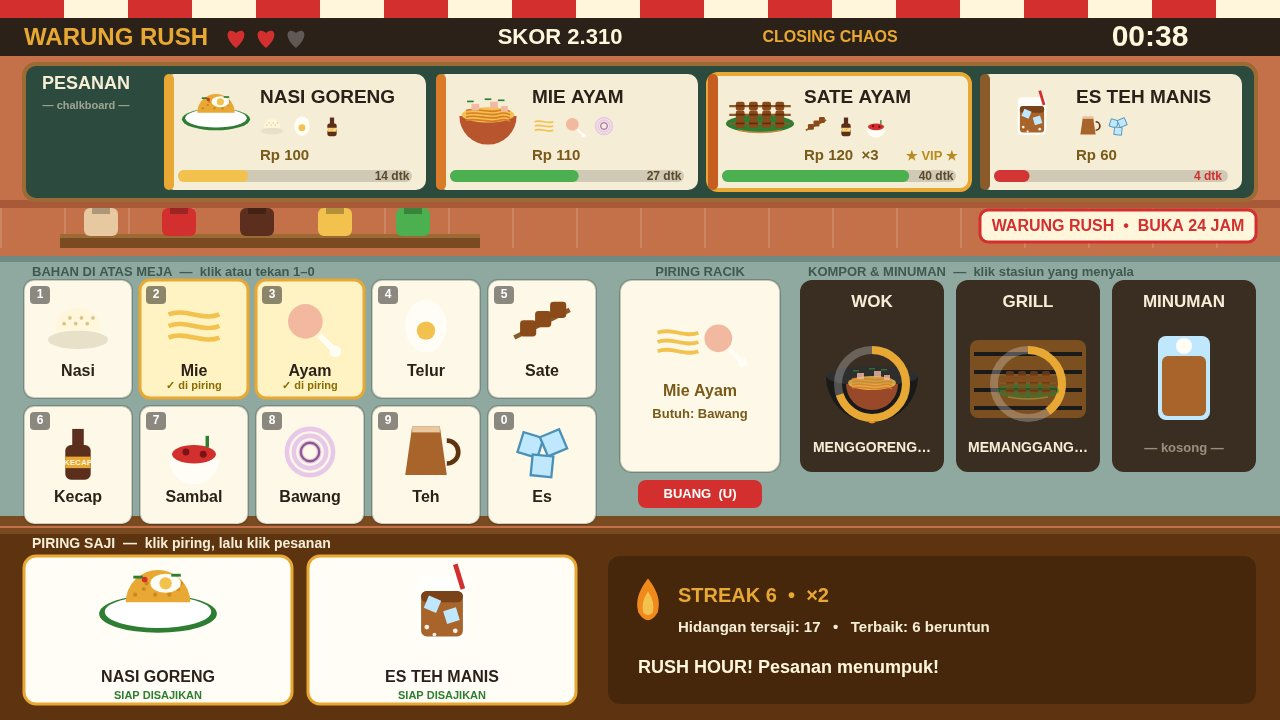
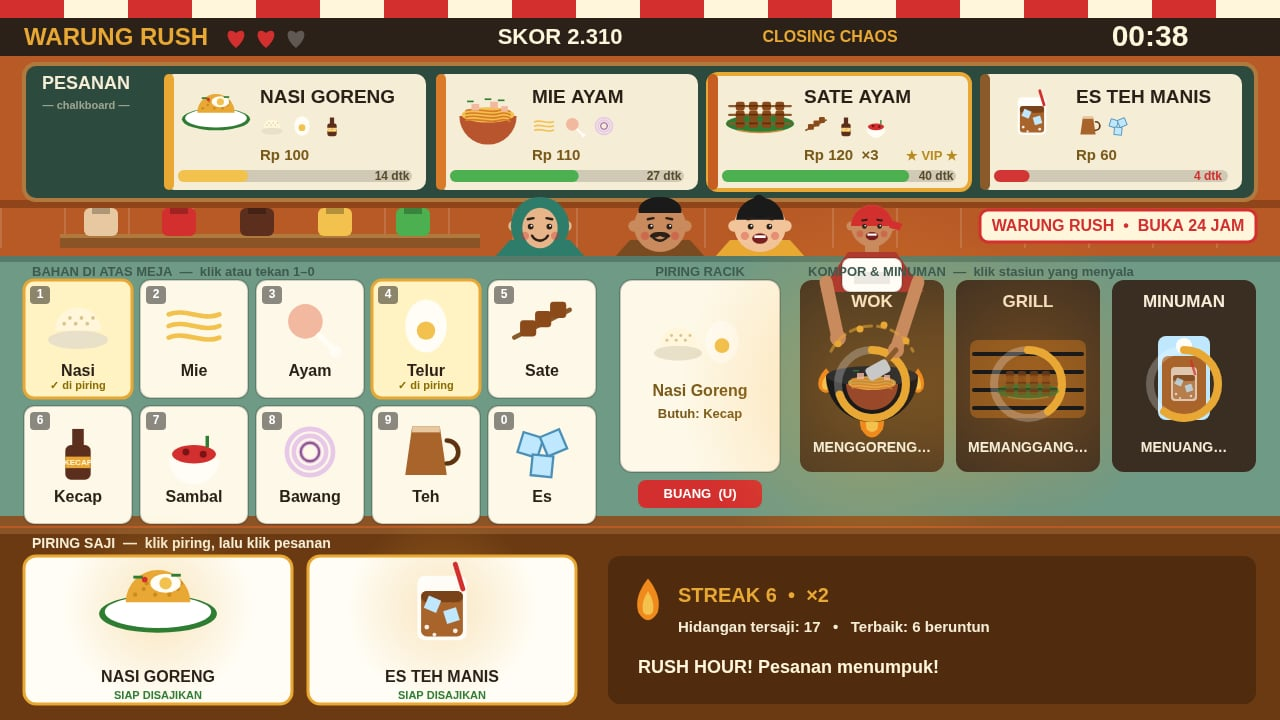
Revision: chef + customers, warm glow, peak-rush cover

Changed region(s): [[0.0, 0.0611, 1.0, 0.9472], [0.2812, 0.7333, 0.4062, 0.9472], [0.1562, 0.825, 0.1875, 0.8556]]

diff --git a/game/render.js b/game/render.js
@@ -9,14 +9,16 @@ export const W = 1280;
 export const H = 720;
 
 // Warung palette (from the design spec): terracotta walls, zinc counter,
-// slate-green chalkboard, cream tickets, batik gold.
+// slate-green chalkboard, cream tickets, batik gold. Warmed and saturated
+// in the v3 revision so the stall reads as a glowing evening warung, not a
+// pale UI grid: deep terracotta wall, richer sage zinc, warm wood.
 export const PAL = {
-  wall: '#C4714A',
-  wallDark: '#A85A38',
-  zinc: '#8FA8A0',
-  zincDark: '#6E8A82',
-  wood: '#7A4A21',
-  woodLight: '#9C6B35',
+  wall: '#B85A26',
+  wallDark: '#8F4519',
+  zinc: '#6E9A86',
+  zincDark: '#557A6A',
+  wood: '#8A5426',
+  woodLight: '#B07A3E',
   chalk: '#2D4A3E',
   chalkLight: '#3A5C4C',
   ticket: '#F5EDD6',
@@ -65,6 +67,98 @@ function text(ctx, str, x, y, size, color, align = 'center', weight = 'bold') {
   ctx.textAlign = align;
   ctx.textBaseline = 'middle';
   ctx.fillText(str, x, y);
+}
+
+// Warm light: a soft radial glow that fades to transparent. Used for the
+// wok fire, the grill heat and the golden light over plated food.
+function radialGlow(ctx, x, y, r, inner, outer) {
+  const g = ctx.createRadialGradient(x, y, 0, x, y, r);
+  g.addColorStop(0, inner);
+  g.addColorStop(1, outer);
+  ctx.fillStyle = g;
+  ctx.fillRect(x - r, y - r, r * 2, r * 2);
+}
+
+// One face: skin circle, two eyes with a glint, eyebrows and a smile.
+// `opts` picks the headwear / hair so each customer reads as a person.
+function drawFace(ctx, cx, cy, r, skin, opts = {}) {
+  ctx.save();
+  // Head.
+  ctx.fillStyle = skin;
+  ctx.beginPath(); ctx.arc(cx, cy, r, 0, Math.PI * 2); ctx.fill();
+  // Ears.
+  ctx.beginPath(); ctx.arc(cx - r, cy, r * 0.22, 0, Math.PI * 2); ctx.fill();
+  ctx.beginPath(); ctx.arc(cx + r, cy, r * 0.22, 0, Math.PI * 2); ctx.fill();
+  // Headwear / hair, drawn over the top of the head.
+  if (opts.hijab) {
+    // The hijab frames the face: a full covering, then the face opening.
+    ctx.fillStyle = opts.hijab;
+    ctx.beginPath(); ctx.arc(cx, cy, r * 1.12, 0, Math.PI * 2); ctx.fill();
+    ctx.fillStyle = skin;
+    ctx.beginPath(); ctx.ellipse(cx, cy + r * 0.08, r * 0.68, r * 0.78, 0, 0, Math.PI * 2); ctx.fill();
+  } else if (opts.peci) {
+    ctx.fillStyle = '#1A1A1A';
+    ctx.beginPath(); ctx.ellipse(cx, cy - r * 0.62, r * 0.82, r * 0.5, 0, Math.PI, 0); ctx.fill();
+    ctx.fillRect(cx - r * 0.82, cy - r * 0.66, r * 1.64, r * 0.16);
+  } else if (opts.hair) {
+    ctx.fillStyle = opts.hair;
+    ctx.beginPath(); ctx.arc(cx, cy - r * 0.18, r * 0.92, Math.PI * 1.02, Math.PI * 1.98); ctx.fill();
+    // A tuft sticking up.
+    ctx.beginPath(); ctx.moveTo(cx - r * 0.3, cy - r * 0.95);
+    ctx.quadraticCurveTo(cx - r * 0.1, cy - r * 1.45, cx + r * 0.25, cy - r * 1.0);
+    ctx.quadraticCurveTo(cx, cy - r * 0.8, cx - r * 0.3, cy - r * 0.95);
+    ctx.fill();
+  } else if (opts.bandana) {
+    // A bandana cap: the top half of the head, straight edge at the brow.
+    ctx.fillStyle = opts.bandana;
+    ctx.beginPath(); ctx.arc(cx, cy, r, Math.PI, 0); ctx.closePath(); ctx.fill();
+    // Knot tails on the side.
+    ctx.beginPath();
+    ctx.moveTo(cx + r * 0.9, cy - r * 0.28);
+    ctx.lineTo(cx + r * 1.45, cy - r * 0.1);
+    ctx.lineTo(cx + r * 1.3, cy + r * 0.22);
+    ctx.lineTo(cx + r * 0.82, cy + r * 0.08);
+    ctx.closePath(); ctx.fill();
+  }
+  // Eyes: dark dots with a white glint, set wide so they read at a glance.
+  const eyeY = cy + r * 0.02;
+  const eyeDX = r * 0.36;
+  const eyeR = Math.max(2.2, r * 0.11);
+  for (const s of [-1, 1]) {
+    ctx.fillStyle = '#2B2118';
+    ctx.beginPath(); ctx.arc(cx + s * eyeDX, eyeY, eyeR, 0, Math.PI * 2); ctx.fill();
+    ctx.fillStyle = '#FFFFFF';
+    ctx.beginPath(); ctx.arc(cx + s * eyeDX + eyeR * 0.3, eyeY - eyeR * 0.3, eyeR * 0.35, 0, Math.PI * 2); ctx.fill();
+  }
+  // Eyebrows, angled for expression.
+  ctx.strokeStyle = '#2B2118';
+  ctx.lineWidth = Math.max(1.6, r * 0.09);
+  ctx.beginPath(); ctx.moveTo(cx - eyeDX - eyeR, eyeY - r * 0.28);
+  ctx.lineTo(cx - eyeDX + eyeR, eyeY - r * 0.32); ctx.stroke();
+  ctx.beginPath(); ctx.moveTo(cx + eyeDX - eyeR, eyeY - r * 0.32);
+  ctx.lineTo(cx + eyeDX + eyeR, eyeY - r * 0.28); ctx.stroke();
+  // Blush.
+  ctx.fillStyle = 'rgba(211,47,47,0.35)';
+  ctx.beginPath(); ctx.arc(cx - r * 0.58, cy + r * 0.38, r * 0.16, 0, Math.PI * 2); ctx.fill();
+  ctx.beginPath(); ctx.arc(cx + r * 0.58, cy + r * 0.38, r * 0.16, 0, Math.PI * 2); ctx.fill();
+  // Smile: open and eager, or a closed grin.
+  if (opts.openSmile) {
+    ctx.fillStyle = '#7A1F1F';
+    ctx.beginPath(); ctx.ellipse(cx, cy + r * 0.48, r * 0.3, r * 0.2, 0, 0, Math.PI * 2); ctx.fill();
+    ctx.fillStyle = '#FFFFFF';
+    ctx.fillRect(cx - r * 0.22, cy + r * 0.36, r * 0.44, r * 0.1);
+  } else {
+    ctx.strokeStyle = '#2B2118';
+    ctx.lineWidth = Math.max(1.8, r * 0.1);
+    ctx.beginPath(); ctx.arc(cx, cy + r * 0.22, r * 0.34, Math.PI * 0.15, Math.PI * 0.85); ctx.stroke();
+  }
+  // Mustache, for the bapak.
+  if (opts.mustache) {
+    ctx.fillStyle = '#2B2118';
+    ctx.beginPath(); ctx.ellipse(cx - r * 0.16, cy + r * 0.34, r * 0.24, r * 0.1, -0.25, 0, Math.PI * 2); ctx.fill();
+    ctx.beginPath(); ctx.ellipse(cx + r * 0.16, cy + r * 0.34, r * 0.24, r * 0.1, 0.25, 0, Math.PI * 2); ctx.fill();
+  }
+  ctx.restore();
 }
 
 // ---------------------------------------------------------------- dishes
@@ -292,7 +386,11 @@ export function drawScene(ctx, S, now) {
 
   drawWallShelf(ctx);
   drawOrderBoard(ctx, S, now);
+  drawCustomers(ctx, S, now);
   drawCounter(ctx, S, now);
+  drawCook(ctx, S, now);
+  // Station header, drawn over the cook's apron so it stays legible.
+  text(ctx, 'KOMPOR & MINUMAN  —  klik stasiun yang menyala', LAYOUT.stations.x + 8, LAYOUT.stations.y + 8, 13, '#3E5A50', 'left');
   drawBottom(ctx, S, now);
   drawHud(ctx, S, now);
   drawParticles(ctx, S);
@@ -323,6 +421,93 @@ function drawWallShelf(ctx) {
   ctx.strokeStyle = PAL.red; ctx.lineWidth = 3;
   roundRect(ctx, 980, 210, 276, 32, 8); ctx.stroke();
   text(ctx, 'WARUNG RUSH  •  BUKA 24 JAM', 1118, 227, 16, PAL.red);
+}
+
+// Waiting customers: three distinct faces peeking over the counter in the
+// wall strip, between the spice shelf and the sign. Each reads as a person
+// (hijab, peci + mustache, excited kid), so the stall has people waiting,
+// not just tickets. Drawn before the counter, so the zinc counter top
+// covers their shoulders below y 256.
+function drawCustomers(ctx, S, now) {
+  const customers = [
+    { x: 540, skin: '#E8B48A', hijab: '#2E7D6B', shirt: '#2E7D6B' },
+    { x: 660, skin: '#C98A5E', peci: true, mustache: true, shirt: '#7A4A21' },
+    { x: 760, skin: '#F2C49B', hair: '#1A1A1A', shirt: '#E8A833', openSmile: true },
+  ];
+  for (const c of customers) {
+    // Shoulders, just peeking over the counter.
+    ctx.fillStyle = c.shirt;
+    ctx.beginPath();
+    ctx.moveTo(c.x - 46, 258);
+    ctx.lineTo(c.x - 30, 240);
+    ctx.lineTo(c.x + 30, 240);
+    ctx.lineTo(c.x + 46, 258);
+    ctx.closePath(); ctx.fill();
+    drawFace(ctx, c.x, 226, 26, c.skin, c);
+  }
+}
+
+// The cook at the wok: head and bandana in the wall strip, shoulders over
+// the counter, arms reaching down to the wok with a spatula, tossing food
+// mid-air. Drawn after the counter so the cook stands in front of the
+// station, arms clear of the WOK label.
+function drawCook(ctx, S, now) {
+  const cx = LAYOUT.stations.x + LAYOUT.stationW / 2; // 872, wok centre
+  const cooking = !!S.stations.wok.dishId;
+  // Head + red bandana (wall strip, clear of the order board above).
+  drawFace(ctx, cx, 226, 21, '#C98A5E', { bandana: '#D32F2F', openSmile: true });
+  // Neck.
+  ctx.fillStyle = '#C98A5E';
+  ctx.fillRect(cx - 7, 244, 14, 12);
+  // Torso: red shirt + white apron, ending above the WOK label (y 302).
+  ctx.fillStyle = '#B03A2E';
+  ctx.beginPath();
+  ctx.moveTo(cx - 24, 252);
+  ctx.lineTo(cx + 24, 252);
+  ctx.lineTo(cx + 52, 292);
+  ctx.lineTo(cx - 52, 292);
+  ctx.closePath(); ctx.fill();
+  ctx.fillStyle = '#FFFDF5';
+  roundRect(ctx, cx - 30, 258, 60, 34, 8); ctx.fill();
+  ctx.strokeStyle = 'rgba(0,0,0,0.15)'; ctx.lineWidth = 2;
+  roundRect(ctx, cx - 30, 258, 60, 34, 8); ctx.stroke();
+  ctx.fillStyle = 'rgba(0,0,0,0.08)';
+  ctx.fillRect(cx - 18, 272, 36, 12);
+  // Arms: right arm holds the spatula into the wok, left steadies the rim.
+  ctx.strokeStyle = '#C98A5E';
+  ctx.lineCap = 'round';
+  ctx.lineWidth = 13;
+  ctx.beginPath(); ctx.moveTo(cx + 46, 282); ctx.lineTo(cx + 24, 350); ctx.stroke();
+  ctx.beginPath(); ctx.moveTo(cx - 46, 282); ctx.lineTo(cx - 34, 338); ctx.stroke();
+  // Hands.
+  ctx.fillStyle = '#C98A5E';
+  ctx.beginPath(); ctx.arc(cx + 24, 350, 8, 0, Math.PI * 2); ctx.fill();
+  ctx.beginPath(); ctx.arc(cx - 34, 338, 8, 0, Math.PI * 2); ctx.fill();
+  // Spatula: wooden handle from the right hand into the wok, steel blade.
+  ctx.strokeStyle = '#8A5A2B';
+  ctx.lineWidth = 5;
+  ctx.beginPath(); ctx.moveTo(cx + 24, 350); ctx.lineTo(cx + 8, 368); ctx.stroke();
+  ctx.fillStyle = '#C8C8C8';
+  ctx.save();
+  ctx.translate(cx + 6, 370);
+  ctx.rotate(-0.5);
+  roundRect(ctx, -12, -7, 24, 14, 4); ctx.fill();
+  ctx.restore();
+  // The toss: a dashed motion arc above the wok + golden bits arcing
+  // through the air, so the cook reads as mid-action. Bobs gently with
+  // `now`; frozen at a fixed pose in screenshots.
+  const toss = cooking ? 1 : 0.6;
+  ctx.strokeStyle = 'rgba(232,168,51,0.55)';
+  ctx.lineWidth = 3;
+  ctx.setLineDash([8, 6]);
+  ctx.beginPath(); ctx.arc(cx, 372, 46, Math.PI * 1.15, Math.PI * 1.85); ctx.stroke();
+  ctx.setLineDash([]);
+  const dots = [[-34, -31], [-12, -44], [12, -44], [34, -31]];
+  ctx.fillStyle = '#E8A833';
+  dots.forEach(([dx, dy], i) => {
+    const bob = Math.sin(now * 6 + i * 1.7) * 3 * toss;
+    ctx.beginPath(); ctx.arc(cx + dx, 372 + dy + bob, 3.5, 0, Math.PI * 2); ctx.fill();
+  });
 }
 
 function drawOrderBoard(ctx, S, now) {
@@ -478,7 +663,8 @@ function drawPan(ctx, S, now) {
 
 function drawStations(ctx, S, now) {
   const st = LAYOUT.stations;
-  text(ctx, 'KOMPOR & MINUMAN  —  klik stasiun yang menyala', st.x + 8, st.y + 8, 13, '#3E5A50', 'left');
+  // (The "KOMPOR & MINUMAN" header is drawn in drawScene, after the cook,
+  // so it stays legible over the cook's apron.)
   const ids = ['wok', 'grill', 'drink'];
   ids.forEach((id, i) => {
     const x = st.x + i * (LAYOUT.stationW + 12);
@@ -497,12 +683,25 @@ function drawStations(ctx, S, now) {
     text(ctx, info.name, x + LAYOUT.stationW / 2, y + 22, 17, '#F5EDD6');
     // Station visual.
     if (id === 'wok') {
-      drawFlame(ctx, x + 72, y + 128, 1.1, now);
+      // Fire glow spilling onto the counter while the wok is cooking,
+      // and flames licking the pan: a big one below it, two small
+      // tongues at the pan's rim. Brighter while cooking.
+      if (station.dishId) {
+        radialGlow(ctx, x + 72, y + 110, 190, 'rgba(255,166,40,0.32)', 'rgba(255,166,40,0)');
+      }
+      const fs = station.dishId ? 1.4 : 1.1;
+      drawFlame(ctx, x + 72, y + 138, fs, now);
+      drawFlame(ctx, x + 26, y + 102, fs * 0.55, now + 0.7);
+      drawFlame(ctx, x + 118, y + 102, fs * 0.55, now + 1.3);
       ctx.fillStyle = '#1A1A1A';
       ctx.beginPath(); ctx.arc(x + 72, y + 96, 46, 0, Math.PI); ctx.closePath(); ctx.fill();
       ctx.fillStyle = '#2E2E2E';
       ctx.beginPath(); ctx.ellipse(x + 72, y + 96, 46, 10, 0, 0, Math.PI * 2); ctx.fill();
     } else if (id === 'grill') {
+      // Grill heat glow while something is on the grill.
+      if (station.dishId) {
+        radialGlow(ctx, x + 72, y + 100, 150, 'rgba(240,138,29,0.30)', 'rgba(240,138,29,0)');
+      }
       const g = 0.6 + 0.4 * Math.sin(now * 3);
       ctx.fillStyle = `rgba(240,138,29,${0.25 + g * 0.3})`;
       roundRect(ctx, x + 14, y + 60, 116, 78, 8); ctx.fill();
@@ -544,9 +743,9 @@ function drawStations(ctx, S, now) {
 
 function drawBottom(ctx, S, now) {
   const b = LAYOUT.bottom;
-  ctx.fillStyle = '#5E3410';
+  ctx.fillStyle = '#6B3A12';
   ctx.fillRect(0, b.y, W, b.h);
-  ctx.fillStyle = '#7A4A21';
+  ctx.fillStyle = '#8A5426';
   ctx.fillRect(0, b.y, W, 6);
   // Serving plates.
   const pl = LAYOUT.plates;
@@ -558,6 +757,8 @@ function drawBottom(ctx, S, now) {
     ctx.fillStyle = dishId ? '#FFFDF5' : 'rgba(255,255,255,0.10)';
     roundRect(ctx, x, y, LAYOUT.plateW, LAYOUT.plateH - 16, 12); ctx.fill();
     if (dishId) {
+      // Warm golden light over the finished food, so it glows.
+      radialGlow(ctx, x + LAYOUT.plateW / 2, y + 52, 95, 'rgba(232,168,51,0.28)', 'rgba(232,168,51,0)');
       ctx.strokeStyle = PAL.gold; ctx.lineWidth = 3;
       roundRect(ctx, x, y, LAYOUT.plateW, LAYOUT.plateH - 16, 12); ctx.stroke();
       drawDish(ctx, dishId, x + LAYOUT.plateW / 2, y + 52, 0.95);

diff --git a/game/game.js b/game/game.js
@@ -473,28 +473,34 @@ function baseShot(overrides) {
 
 export function applyShot(name) {
   if (name === 'cover') {
+    // PEAK RUSH (v3 restage): Closing Chaos, all four order slots filled
+    // (one VIP), every station cooking, both serving plates full, streak
+    // firing, timer in the red. No empty slot anywhere in the frame.
+    // The pan holds a Mie Ayam mid-assembly (needs Bawang) while the wok
+    // fries Nasi Goreng — a real gameplay moment, not a posed still.
     baseShot({
       shot: 'cover',
-      timeLeft: 74,
-      rushPhase: 2,
-      score: 1250,
-      streak: 3,
-      bestStreak: 3,
-      served: 9,
+      timeLeft: 28,
+      rushPhase: 3,
+      score: 1850,
+      streak: 7,
+      bestStreak: 7,
+      served: 14,
       hearts: 3,
       orders: [
-        { id: 1, dishId: 'nasgor', timeLeft: 18, timeMax: 45, vip: false },
-        { id: 2, dishId: 'mieayam', timeLeft: 33.6, timeMax: 48, vip: false },
-        { id: 3, dishId: 'esteh', timeLeft: 5, timeMax: 25, vip: false },
+        { id: 1, dishId: 'nasgor', timeLeft: 10, timeMax: 45, vip: false },
+        { id: 2, dishId: 'mieayam', timeLeft: 26, timeMax: 48, vip: false },
+        { id: 3, dishId: 'sate', timeLeft: 38, timeMax: 50, vip: true },
+        { id: 4, dishId: 'esteh', timeLeft: 5, timeMax: 25, vip: false },
       ],
-      pan: ['nasi', 'telur'],
+      pan: ['mie', 'ayam'],
       stations: {
-        wok: { dishId: 'nasgor', progress: 0.55, done: false },
-        grill: { dishId: null, progress: 0, done: false },
-        drink: { dishId: null, progress: 0, done: false },
+        wok: { dishId: 'nasgor', progress: 0.7, done: false },
+        grill: { dishId: 'sate', progress: 0.5, done: false },
+        drink: { dishId: 'esteh', progress: 0.8, done: false },
       },
-      plates: ['sate', null],
-      message: 'Sate Ayam siap disajikan!',
+      plates: ['sate', 'nasgor'],
+      message: 'Streak 7! Semua kompor menyala!',
       messageT: 3,
     });
   } else if (name === 'rush') {
@@ -513,11 +519,11 @@ export function applyShot(name) {
         { id: 3, dishId: 'sate', timeLeft: 40, timeMax: 50, vip: true },
         { id: 4, dishId: 'esteh', timeLeft: 3.8, timeMax: 25, vip: false },
       ],
-      pan: ['mie', 'ayam'],
+      pan: ['nasi', 'telur'],
       stations: {
         wok: { dishId: 'mieayam', progress: 0.7, done: false },
         grill: { dishId: 'sate', progress: 0.4, done: false },
-        drink: { dishId: null, progress: 0, done: false },
+        drink: { dishId: 'esteh', progress: 0.6, done: false },
       },
       plates: ['nasgor', 'esteh'],
       message: 'RUSH HOUR! Pesanan menumpuk!',
@@ -541,7 +547,7 @@ export function applyShot(name) {
       pan: [],
       stations: {
         wok: { dishId: null, progress: 0, done: false },
-        grill: { dishId: null, progress: 0, done: false },
+        grill: { dishId: 'sate', progress: 0.4, done: false },
         drink: { dishId: null, progress: 0, done: false },
       },
       plates: [null, 'nasgor'],
